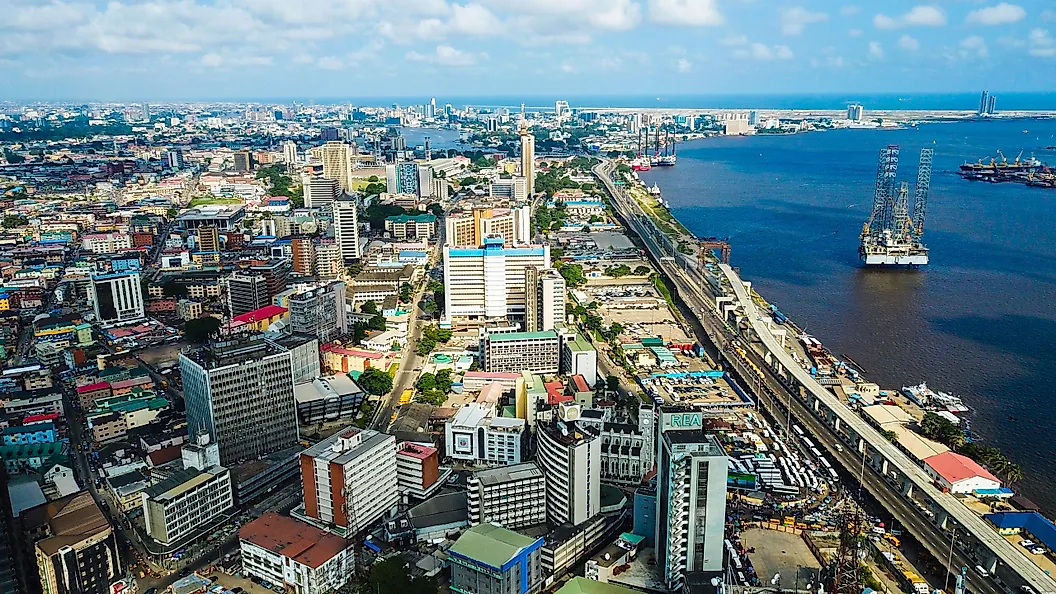
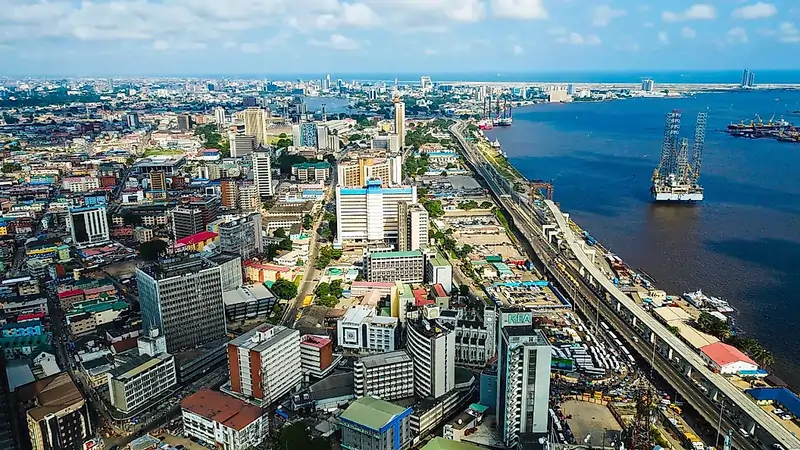
Week 3 Updated Homepage Assignment

diff --git a/chamber/index.html b/chamber/index.html
@@ -6,7 +6,7 @@
     <title>The Lagos Chamber of Commerce HomePage</title>
     <meta
       name="description"
-      content="This is the homepage for Lagos Chamber of Commerce where you can gain more information about community events around you and as well interact with other businesses."
+      content="Homepage for Lagos Chamber of Commerce where you can gain more information about community events and things around you."
     />
     <meta name="author" content="Ebere Jennifer Chikaodi" />
 
@@ -18,7 +18,7 @@
     <meta property="og:type" content="website" />
     <meta
       property="og:description"
-      content="This is the homepage for the Lagos Chamber of Commerce and if you are looking to get extra information about the events happening aroud you, keep your eyes glued to this page."
+      content="Welcome to the Lagos Chamber of Commerce — stay updated on exciting local events, opportunities, and community news."
     />
     <meta
       property="og:image"
@@ -70,7 +70,7 @@
     </header>
 
     <main class="main-home">
-
+      <h1 class="intro">A Page Where Business Opportunities Meet Community Impact &#127802;</h1>
   <!-- HERO SECTION -->
   <section class="hero-section">
     <img
@@ -118,8 +118,8 @@
       <div id="current-weather">
         <img
           id="weather-icon"
-          src=""
-          alt=""
+          src="images/placeholder-weather-icon.webp"
+          alt="weather"
           width="50"
           height="50"
         />

diff --git a/chamber/styles/small.css b/chamber/styles/small.css
@@ -133,6 +133,10 @@ header {
   background-color: #00b68f;
 }
 
+.intro {
+  color:#0077b6
+}
+
 /* HOME GRID */
 .top-grid {
   display: grid;
